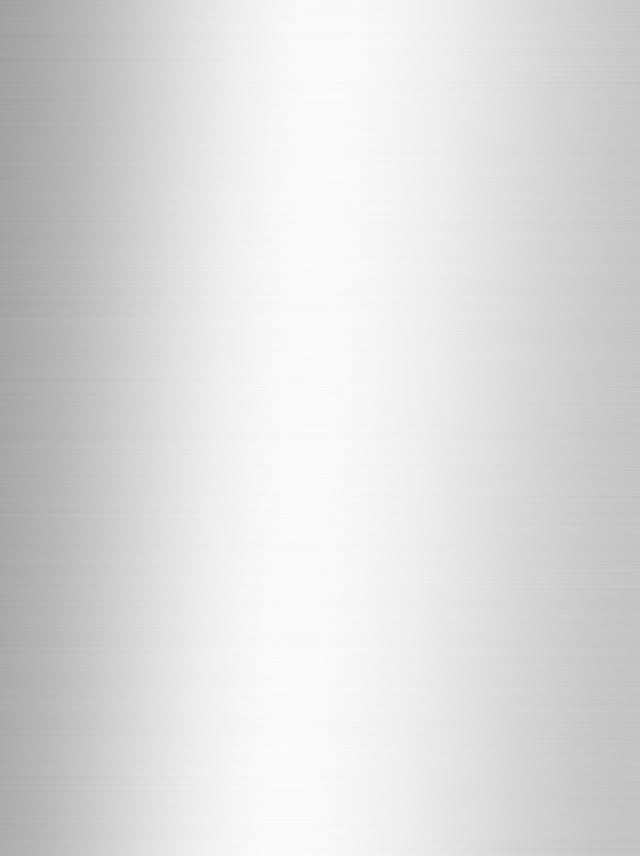
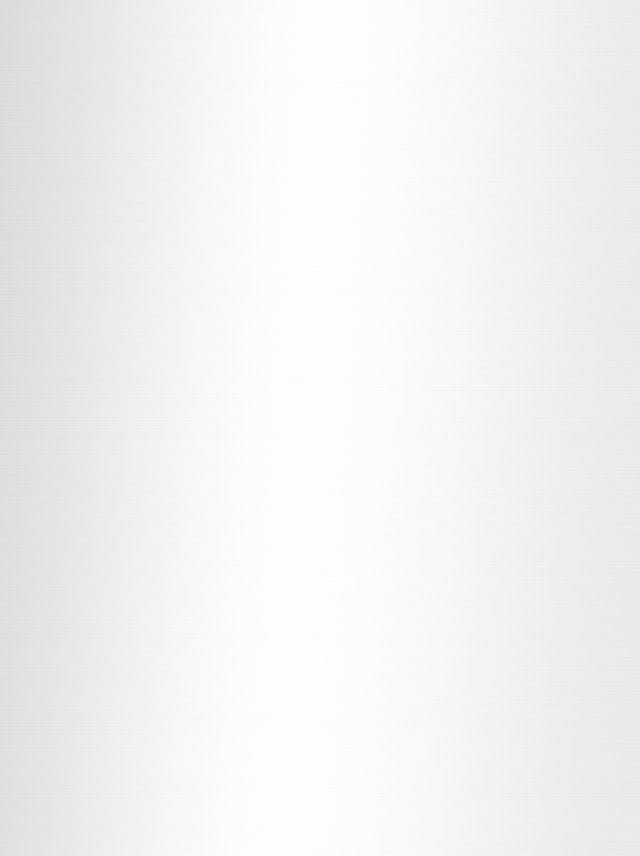
fixed the background

diff --git a/index.html b/index.html
@@ -72,7 +72,7 @@
                 <img id="scroll-right" src="./img/scroll_arrow_right.png">
             </div>
 
-            <hr class="freezer-separator">
+
 
             <section class="paper">
                 <article class="head">
